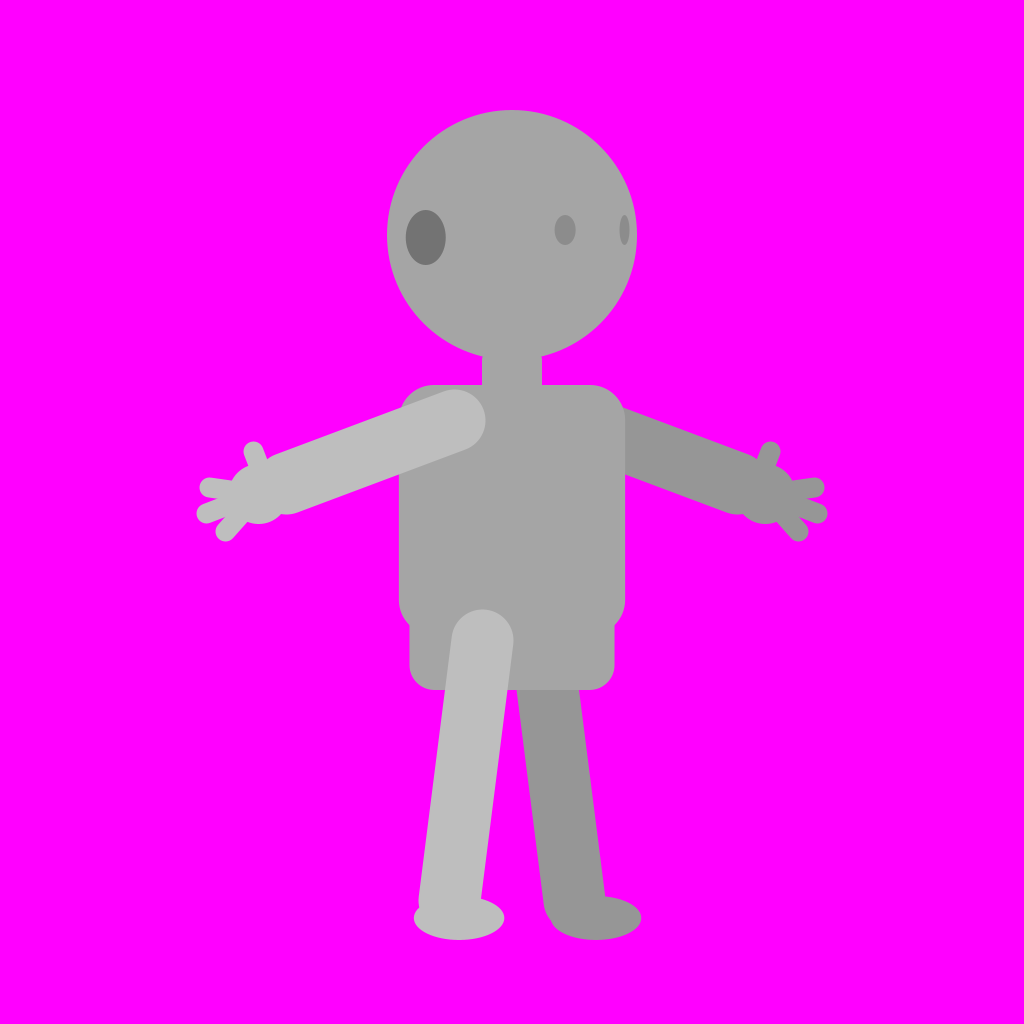
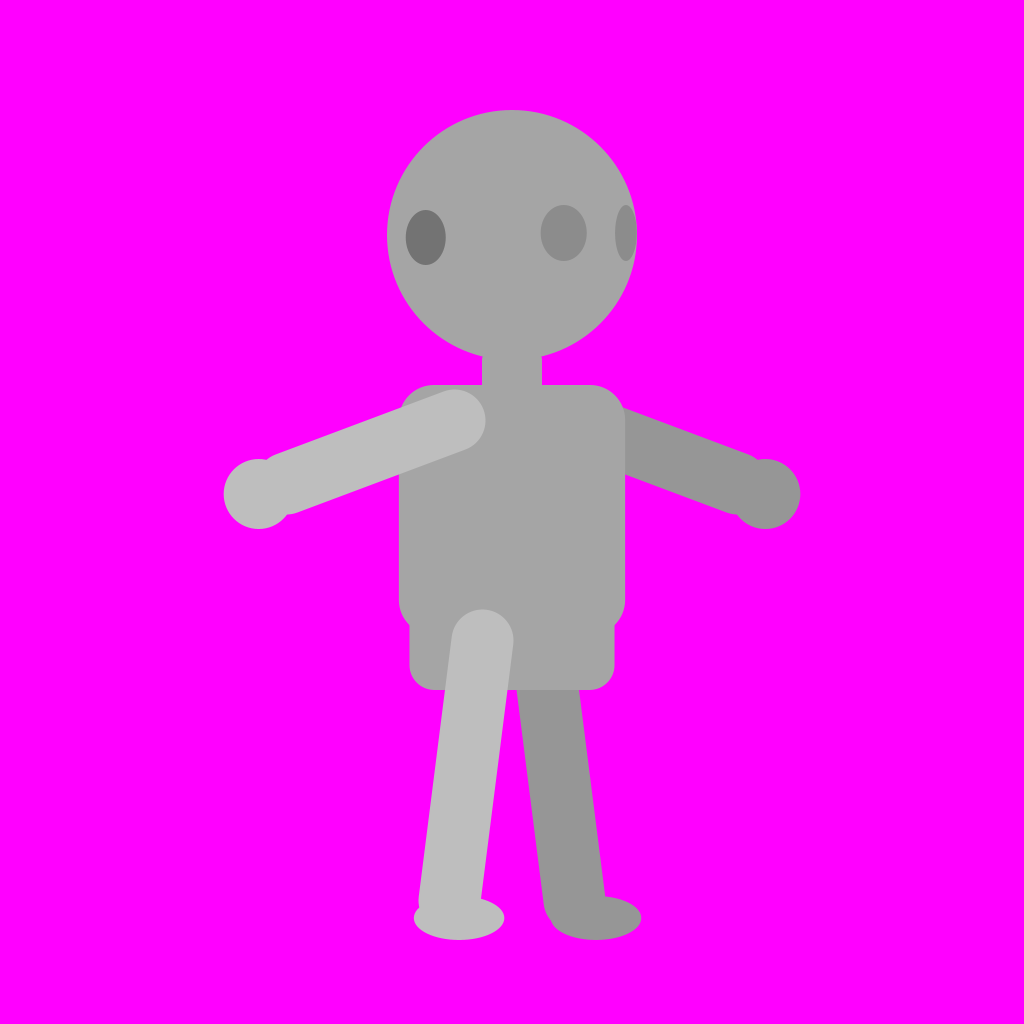
Bỏ ép số ngón tay: hình nộm tay tròn lại, mắt hình nộm to (một phần năm đầu); prompt góc nhìn chép nguyên đoạn style bold phẳng đã duyệt (bảng màu hex), mắt to, tay hoạt hình đơn giản; tin sửa 'tay vụng' và 'mắt nhỏ'; brief Kai và mẫu brief bỏ số ngón; viewcheck nới chiều cao 12% và ngưỡng hồng 20; 

diff --git a/tools/src/main/kotlin/com/example/storyrig/tools/Templates.kt b/tools/src/main/kotlin/com/example/storyrig/tools/Templates.kt
@@ -13,7 +13,6 @@ import java.io.File
 import javax.imageio.ImageIO
 import kotlin.math.abs
 import kotlin.math.cos
-import kotlin.math.hypot
 import kotlin.math.sin
 import kotlin.math.sqrt
 import kotlin.math.tan
@@ -82,18 +81,8 @@ internal fun drawRigView(yaw: Int, out: File, armDeg: Double = RIG_ARM_DEG, legD
         val ex = side * (82 + 245 * cos(ar)); val ey = 420 + 245 * sin(ar)
         val hx = side * (82 + 286 * cos(ar)); val hy = 420 + 286 * sin(ar)
         limb(g, col, X(side * 82.0), 420.0, X(ex), ey, 31.0)
-        // Hand: a palm with three fingers along the arm and a thumb pointing up (cartoon hands, four digits), so the
-        // picture copied from the mannequin has the right number of fingers; the csv keeps the palm centre.
-        val hcx = X(hx); val dl = hypot(hcx - X(side * 82.0), hy - 420.0)
-        val dx = (hcx - X(side * 82.0)) / dl; val dy = (hy - 420.0) / dl
-        g.color = col; g.fill(Ellipse2D.Double(hcx - 30, hy - 30, 60.0, 60.0))
-        for (deg in listOf(-28.0, 0.0, 28.0)) {
-            val a = Math.toRadians(deg); val fx = dx * cos(a) - dy * sin(a); val fy = dx * sin(a) + dy * cos(a)
-            val len = if (deg == 0.0) 56.0 else 50.0
-            limb(g, col, hcx + fx * 14, hy + fy * 14, hcx + fx * len, hy + fy * len, 10.0)
-        }
-        val tx = side * dy; val ty = -side * dx
-        limb(g, col, hcx - dx * 10, hy - dy * 10, hcx - dx * 10 + tx * 42, hy - dy * 10 + ty * 42, 10.0)
+        // Hand: a plain circle (fingers drawn on the mannequin came back as a deformed hand: Gemini copies the shape).
+        g.color = col; g.fill(Ellipse2D.Double(X(hx) - 35, hy - 35, 70.0, 70.0))
         val n = name(side)
         // Where the arm's axis leaves the torso side (screen half width tw/2), and where its lower edge does: the
         // arm runs cos(ar)*|c| screen px sideways and sin(ar) down per unit of its length.
@@ -124,9 +113,10 @@ internal fun drawRigView(yaw: Int, out: File, armDeg: Double = RIG_ARM_DEG, legD
     for (side in listOf(-1, 1)) {
         val d = depth(side * 42.0, ez)
         if (d < 15) continue
-        val ew = 22 * (d / ez).coerceIn(.35, 1.0)
+        // Big cartoon eyes (about a fifth of the head's width): the eye size is copied from the mannequin too.
+        val ew = 48 * (d / ez).coerceIn(.35, 1.0)
         g.color = Color(140, 140, 140)
-        g.fill(Ellipse2D.Double(X(side * 42.0, ez) - ew / 2, 215.0, ew, 30.0))
+        g.fill(Ellipse2D.Double(X(side * 44.0, ez) - ew / 2, 205.0, ew, 56.0))
     }
     if (!symmetric) { g.color = body; g.fill(Ellipse2D.Double(X(0.0, 132.0) - 14, 250.0, 28.0, 26.0)) }
     arm(nearSide, near)

diff --git a/tools/src/main/kotlin/com/example/storyrig/tools/ViewCheck.kt b/tools/src/main/kotlin/com/example/storyrig/tools/ViewCheck.kt
@@ -76,7 +76,8 @@ internal fun viewCheck(char: String, view: String): Boolean {
     val tm = TemplateMap(tpl, sil)
     val cH = sil.box.y1 - sil.box.y0; val tH = tpl.box.y1 - tpl.box.y0
     val hScale = cH.toFloat() / tH * img.w / 1024f
-    checks += Check("chiều cao như hình nộm", abs(hScale - 1) <= .08f, "cao $cH px, hình nộm $tH px (tỉ lệ ${"%.2f".format(hScale)}, cho phép 0,92–1,08)", sil.box)
+    // Loose: the cut maps the mannequin onto the character's own box anyway; this only catches a tiny or cropped figure.
+    checks += Check("chiều cao như hình nộm", abs(hScale - 1) <= .12f, "cao $cH px, hình nộm $tH px (tỉ lệ ${"%.2f".format(hScale)}, cho phép 0,88–1,12)", sil.box)
     val bottomOff = sil.box.y1 - tpl.box.y1 * img.w / 1024f
     checks += Check("đế chân trên đường đất", abs(bottomOff) <= 40, "lệch ${bottomOff.roundToInt()} px (cho phép 40)")
     // Pose: the hands are the outermost pixels between the neck and the crotch, near the mannequin's hands.
@@ -102,7 +103,9 @@ internal fun viewCheck(char: String, view: String): Boolean {
     for (y in 3 until sil.h - 3) for (x in 3 until sil.w - 3) {
         if (!sil.at(x, y)) continue
         if ((-3..3).any { dy -> (-3..3).any { dx -> !sil.at(x + dx, y + dy) } }) continue
-        opaque++; if (magenta(img[x, y]) > 10) pink++
+        // 20: near keyMagenta's lower bound (30), where a colour starts to key out; dark hair with a purple cast
+        // (#291D2D) measures about 10 and is fine.
+        opaque++; if (magenta(img[x, y]) > 20) pink++
     }
     checks += Check("không có hồng trên nhân vật", pink <= opaque / 1000, "$pink điểm hồng / $opaque bên trong (cho phép 0,1%)")
     val hs = holes(keyed, 30)

diff --git a/ART_PIPELINE.md b/ART_PIPELINE.md
@@ -32,7 +32,8 @@ Cách này là cách các engine cut-out (Live2D, Spine, Character Animator, app
 | mặt và tay | 16:9, 1376×768 | `rig_face.png` + `.csv` 22 ô (mặt, tay vẽ gấp 2 cỡ thân) | `face.txt`, cuộc trò chuyện mới, đính kèm trực diện đã đạt | `design/face.png` |
 
 - Brief: `assets/templates/brief_template.md` có mục **thiết kế dễ rig** (tay áo trên khuỷu, ống quần trên gối, tóc không chạm vai, không hoa văn vắt qua khớp, không gì vắt chéo thân). Rà trước khi tạo.
-- **Bàn tay: 3 ngón và ngón cái cho mọi nhân vật** (chốt 2026-10-19, chuẩn hoạt hình và app trẻ em; tờ mẫu `rig_face` vẽ tay 3 ngón, brief ghi "three fingers and a thumb").
+- **Bàn tay: không ép số ngón** (chốt 2026-10-19 tối, sau khi ép 4 ngón và vẽ ngón lên hình nộm cho ra tay vụng, mắt nhỏ): prompt chỉ nói tay hoạt hình đơn giản, ngón thả lỏng hơi tách; hình nộm góc nhìn tay tròn, mắt to. 4 ngón chỉ là quy ước 2D cổ điển, không phải yêu cầu kỹ thuật, và chặn cảnh đếm tới 5.
+- **Style: giữ bold phẳng như Kai hiện có** (đoạn "Art style" của `gemini_1_ref.txt`, bảng màu hex, không gradient, không texture). Prompt editorial muted (gradient, grain, 5 đầu) người dùng từng duyệt ở dự án khác không dùng cho nhân vật cut-out: grain và gradient trên mảnh lộ đường ghép khi xoay; nếu cần thì engine phủ lên cả khung hình sau.
 - 1024 đủ cho app: nhân vật cao khoảng 830 px, app cần 670–950 px. Không cần 4K.
 - Lệnh kiểm từng hình: `viewcheck <char> front|3q` (vuông, nền sạch, một cụm, cao như hình nộm, đế trên đường đất, tay giơ như hình nộm, khe nền dưới tay và giữa chân, không hồng, không lỗ, bảng màu; 3/4 còn so chiều cao, đường đất, đũng quần, bảng màu với trực diện) và `facecheck <char>` (16:9, mỗi ô một mảnh, không mảnh lạ, miệng và bàn tay cùng cỡ, màu da bàn tay như thân). Ra `design/viewcheck_<view>.txt/.png`, `design/facecheck.txt/.png`.
 - Hình chưa đạt: tin nhắn sửa có sẵn trong `fixes.txt`, dán vào cùng cuộc trò chuyện, rồi kiểm lại từ đầu. Hướng dẫn đầy đủ: `assets/templates/prompts/web/README.md`.

diff --git a/assets/templates/brief_template.md b/assets/templates/brief_template.md
@@ -9,7 +9,7 @@
 - Dưới: quần ngắn / quần dài / váy, màu, chi tiết.
 - Tất, giày.
 - Phụ kiện (balo, mũ, kính...).
-- Bàn tay: số ngón (thường 3 ngón và ngón cái).
+- Bàn tay: không ép số ngón (Gemini vẽ tự nhiên; ép 4 ngón từng ra tay vụng). Chỉ ghi nếu nhân vật có tay đặc biệt (găng, vuốt).
 
 ## Kiểm thiết kế dễ rig (mỗi dòng phải là "có", hoặc ghi cách xử lý)
 - [ ] Tay áo ngắn, kết thúc trên khuỷu (khuỷu gập không kéo tay áo).
@@ -22,5 +22,5 @@
 - [ ] Mũ, kính (nếu có): ghi "là mảnh riêng trên đầu".
 
 ## Đoạn tiếng Anh (chép vào assets/<char>/brief.txt)
-Một đoạn, tả theo thứ tự: tuổi và dáng; da, tóc, mắt; áo; dưới; tất và giày; phụ kiện; số ngón tay.
-Ví dụ: `Kai, a 7-year-old boy with light tan skin, short messy dark hair with a cowlick and a side-swept fringe, big brown eyes; a red T-shirt with short sleeves rolled into a darker red cuff and a small white star on the chest; a small mustard-yellow backpack whose two straps show over the shoulders; blue denim shorts with turned-up cuffs ending above the knee; white socks with one red stripe; orange and white velcro sneakers; hands with three fingers and a thumb.`
+Một đoạn, tả theo thứ tự: tuổi và dáng; da, tóc, mắt; áo; dưới; tất và giày; phụ kiện.
+Ví dụ: `Kai, a 7-year-old boy with light tan skin, short messy dark hair with a cowlick and a side-swept fringe, big brown eyes; a red T-shirt with short sleeves rolled into a darker red cuff and a small white star on the chest; a small mustard-yellow backpack whose two straps show over the shoulders; blue denim shorts with turned-up cuffs ending above the knee; white socks with one red stripe; orange and white velcro sneakers`
